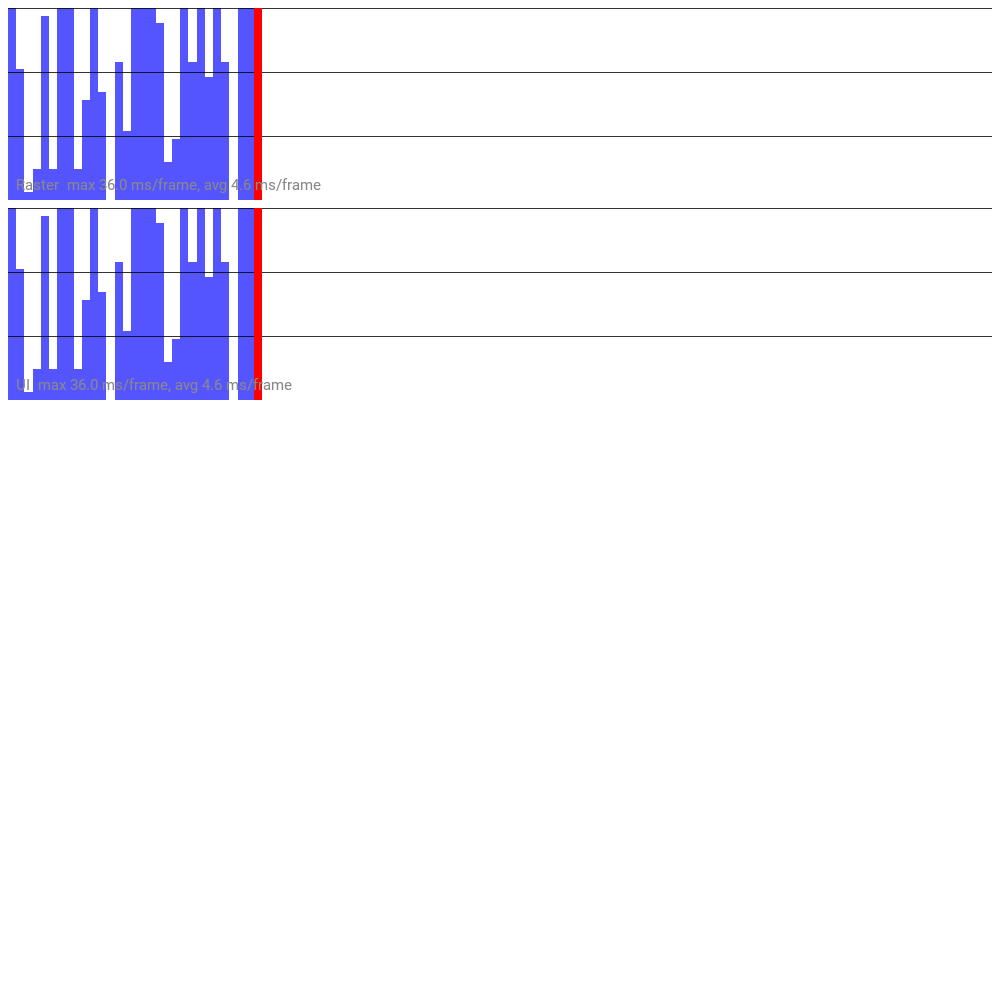
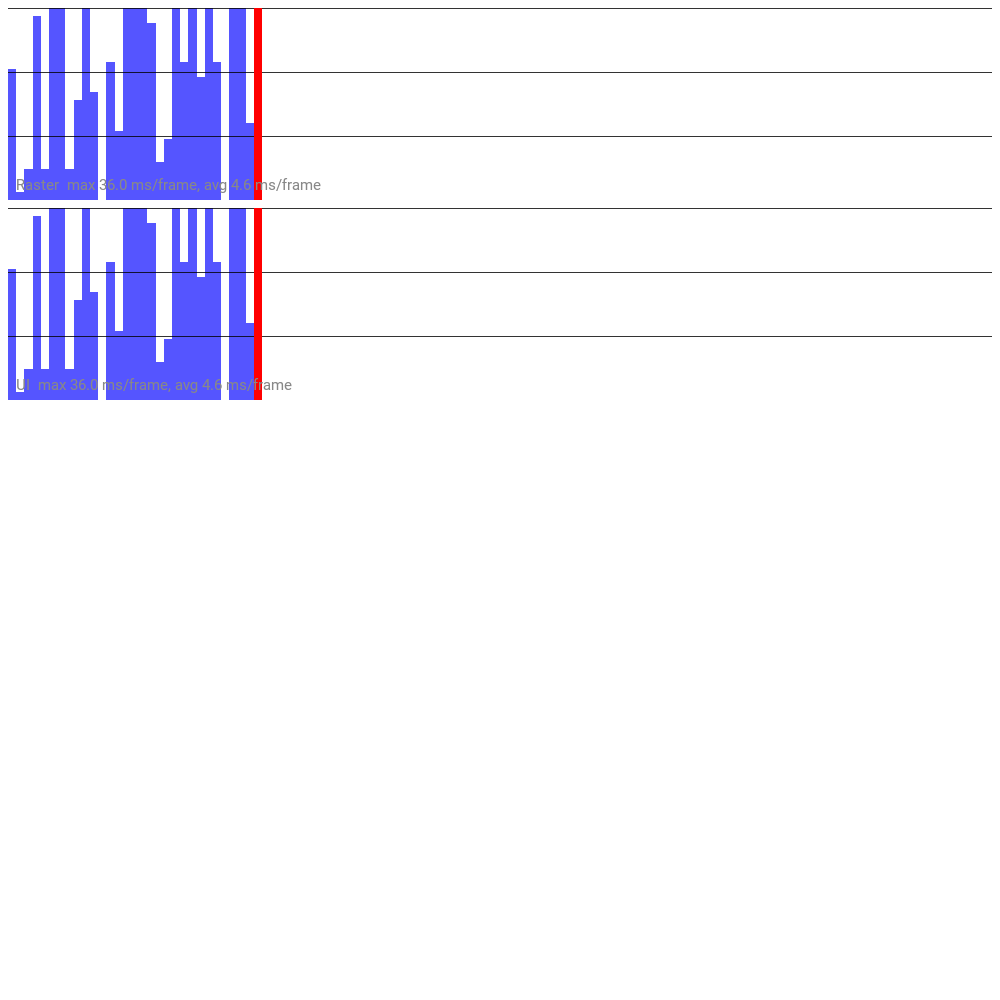
Delete Skia-specific performance overlay implementation (#176364)
(Essentially a re-issue of
https://github.com/flutter/flutter/pull/174682 which ended up with
broken Google Testing links)

We had 2 different implementations of the rendering code for the
performance overlay layer. The skia version used some skia-specific code
to render the overlay incrementally into an offscreen surface and so we
created a different implementation for Impeller that only uses standard
rendering calls (and no surface cache). It turns out that the Impeller
version was faster anyway even on Skia so it is a simple change to
delete the old code and always use the new visualizer.

The new visualizer reduces the time to render the graph from just under
1ms to about .1ms on Skia.
The new visualizer takes .1ms longer to compute on the UI thread, but
overall we save time between the 2 threads.
The new visualizer is much faster on Impeller.

Some work could be done to save some of that time on the UI thread by
only incrementally updating the graph data, but for now we can take the
~.8-.9ms savings with just some deleted code.

Changed region(s): [[0.0, 0.0, 0.279, 0.403]]

diff --git a/engine/src/flutter/flow/stopwatch_dl.cc b/engine/src/flutter/flow/stopwatch_dl.cc
@@ -20,21 +20,21 @@ static const size_t kMaxFrameMarkers = 8;
 
 void DlStopwatchVisualizer::Visualize(DlCanvas* canvas,
                                       const DlRect& rect) const {
-  auto painter = DlVertexPainter(vertices_storage_, color_storage_);
+  DlVertexPainter painter(vertices_storage_, color_storage_);
   DlPaint paint;
 
   // Establish the graph position.
-  auto const x = rect.GetX();
-  auto const y = rect.GetY();
-  auto const width = rect.GetWidth();
-  auto const height = rect.GetHeight();
-  auto const bottom = rect.GetBottom();
+  const DlScalar x = rect.GetX();
+  const DlScalar y = rect.GetY();
+  const DlScalar width = rect.GetWidth();
+  const DlScalar height = rect.GetHeight();
+  const DlScalar bottom = rect.GetBottom();
 
   // Scale the graph to show time frames up to those that are 3x the frame time.
-  auto const one_frame_ms = GetFrameBudget().count();
-  auto const max_interval = one_frame_ms * 3.0;
-  auto const max_unit_interval = UnitFrameInterval(max_interval);
-  auto const sample_unit_width = (1.0 / kMaxSamples);
+  const DlScalar one_frame_ms = GetFrameBudget().count();
+  const DlScalar max_interval = one_frame_ms * 3.0;
+  const DlScalar max_unit_interval = UnitFrameInterval(max_interval);
+  const DlScalar sample_unit_width = width / kMaxSamples;
 
   // resize backing storage to match expected lap count.
   size_t required_storage =
@@ -50,20 +50,21 @@ void DlStopwatchVisualizer::Visualize(DlCanvas* canvas,
   // Prepare a path for the data; we start at the height of the last point so
   // it looks like we wrap around.
   {
-    for (auto i = 0u; i < stopwatch_.GetLapsCount(); i++) {
-      auto const sample_unit_height =
-          (1.0 - UnitHeight(stopwatch_.GetLap(i).ToMillisecondsF(),
-                            max_unit_interval));
+    DlScalar bar_left = x;
+    for (size_t i = 0u; i < stopwatch_.GetLapsCount(); i++) {
+      const double time_ms = stopwatch_.GetLap(i).ToMillisecondsF();
+      const DlScalar sample_unit_height = static_cast<DlScalar>(
+          height * UnitHeight(time_ms, max_unit_interval));
 
-      auto const bar_width = width * sample_unit_width;
-      auto const bar_height = height * sample_unit_height;
-      auto const bar_left = x + width * sample_unit_width * i;
+      const DlScalar bar_top = bottom - sample_unit_height;
+      const DlScalar bar_right = x + (i + 1) * sample_unit_width;
 
       painter.DrawRect(DlRect::MakeLTRB(/*left=*/bar_left,
-                                        /*top=*/y + bar_height,
-                                        /*right=*/bar_left + bar_width,
+                                        /*top=*/bar_top,
+                                        /*right=*/bar_right,
                                         /*bottom=*/bottom),
                        DlColor(0xAA0000FF));
+      bar_left = bar_right;
     }
   }
 
@@ -71,22 +72,22 @@ void DlStopwatchVisualizer::Visualize(DlCanvas* canvas,
   {
     if (max_interval > one_frame_ms) {
       // Paint the horizontal markers.
-      auto count = static_cast<size_t>(max_interval / one_frame_ms);
+      size_t count = static_cast<size_t>(max_interval / one_frame_ms);
 
       // Limit the number of markers to a reasonable amount.
       if (count > kMaxFrameMarkers) {
         count = 1;
       }
 
-      for (auto i = 0u; i < count; i++) {
-        auto const frame_height =
+      for (uint32_t i = 0u; i < count; i++) {
+        const DlScalar frame_height =
             height * (1.0 - (UnitFrameInterval(i + 1) * one_frame_ms) /
                                 max_unit_interval);
 
         // Draw a skinny rectangle (i.e. a line).
         painter.DrawRect(DlRect::MakeLTRB(/*left=*/x,
                                           /*top=*/y + frame_height,
-                                          /*right=*/width,
+                                          /*right=*/x + width,
                                           /*bottom=*/y + frame_height + 1),
                          DlColor(0xCC000000));
       }
@@ -100,12 +101,12 @@ void DlStopwatchVisualizer::Visualize(DlCanvas* canvas,
       // budget exceeded.
       color = DlColor::kRed();
     }
-    auto const l =
-        x + width * (static_cast<double>(stopwatch_.GetCurrentSample()) /
-                     kMaxSamples);
-    auto const t = y;
-    auto const r = l + width * sample_unit_width;
-    auto const b = rect.GetBottom();
+    size_t sample =
+        (stopwatch_.GetCurrentSample() + 1) % stopwatch_.GetLapsCount();
+    const DlScalar l = x + sample * sample_unit_width;
+    const DlScalar t = y;
+    const DlScalar r = l + sample_unit_width;
+    const DlScalar b = rect.GetBottom();
     painter.DrawRect(DlRect::MakeLTRB(l, t, r, b), color);
   }
 
@@ -124,10 +125,10 @@ DlVertexPainter::DlVertexPainter(std::vector<DlPoint>& vertices_storage,
     : vertices_(vertices_storage), colors_(color_storage) {}
 
 void DlVertexPainter::DrawRect(const DlRect& rect, const DlColor& color) {
-  auto const left = rect.GetLeft();
-  auto const top = rect.GetTop();
-  auto const right = rect.GetRight();
-  auto const bottom = rect.GetBottom();
+  const DlScalar left = rect.GetLeft();
+  const DlScalar top = rect.GetTop();
+  const DlScalar right = rect.GetRight();
+  const DlScalar bottom = rect.GetBottom();
 
   FML_DCHECK(6 + colors_offset_ <= vertices_.size());
   FML_DCHECK(6 + colors_offset_ <= colors_.size());
@@ -139,7 +140,7 @@ void DlVertexPainter::DrawRect(const DlRect& rect, const DlColor& color) {
   vertices_[vertices_offset_++] = DlPoint(right, bottom);  // tl
   vertices_[vertices_offset_++] = DlPoint(left, bottom);   // bl br
   vertices_[vertices_offset_++] = DlPoint(left, top);      //
-  for (auto i = 0u; i < 6u; i++) {
+  for (size_t i = 0u; i < 6u; i++) {
     colors_[colors_offset_++] = color;
   }
 }

diff --git a/engine/src/flutter/flow/layers/performance_overlay_layer_unittests.cc b/engine/src/flutter/flow/layers/performance_overlay_layer_unittests.cc
@@ -73,6 +73,7 @@ static void TestPerformanceOverlayLayerGold(int refresh_rate) {
       .ui_time                       = mock_stopwatch,
       .texture_registry              = nullptr,
       .raster_cache                  = nullptr,
+      .impeller_enabled              = false,
       // clang-format on
   };
 
@@ -141,7 +142,13 @@ class ImageSizeTextBlobInspector : public virtual DlOpReceiver,
                  const DlPoint& point,
                  DlImageSampling sampling,
                  bool render_with_attributes) override {
-    sizes_.push_back(image->GetBounds().GetSize());
+    // We no longer render performance overlays with temp images.
+    FML_UNREACHABLE();
+  }
+
+  void drawVertices(const std::shared_ptr<DlVertices>& vertices,
+                    DlBlendMode mode) override {
+    sizes_.push_back(vertices->GetBounds().GetSize());
   }
 
   void drawText(const std::shared_ptr<DlText>& text,
@@ -151,17 +158,17 @@ class ImageSizeTextBlobInspector : public virtual DlOpReceiver,
     text_positions_.push_back(DlPoint(x, y));
   }
 
-  const std::vector<DlISize>& sizes() { return sizes_; }
+  const std::vector<DlSize>& sizes() { return sizes_; }
   const std::vector<std::shared_ptr<DlText>> texts() { return texts_; }
   const std::vector<DlPoint> text_positions() { return text_positions_; }
 
  private:
-  std::vector<DlISize> sizes_;
+  std::vector<DlSize> sizes_;
   std::vector<std::shared_ptr<DlText>> texts_;
   std::vector<DlPoint> text_positions_;
 };
 
-TEST_F(PerformanceOverlayLayerTest, PaintingEmptyLayerDies) {
+TEST_F(PerformanceOverlayLayerTest, PaintingEmptyLayerDoesNotDie) {
   const uint64_t overlay_opts = kVisualizeRasterizerStatistics;
   auto layer = std::make_shared<PerformanceOverlayLayer>(overlay_opts);
 
@@ -169,8 +176,7 @@ TEST_F(PerformanceOverlayLayerTest, PaintingEmptyLayerDies) {
   EXPECT_EQ(layer->paint_bounds(), DlRect());
   EXPECT_FALSE(layer->needs_painting(paint_context()));
 
-  // Crashes reading a nullptr.
-  EXPECT_DEATH_IF_SUPPORTED(layer->Paint(paint_context()), "");
+  layer->Paint(paint_context());
 }
 
 TEST_F(PerformanceOverlayLayerTest, InvalidOptions) {
@@ -237,7 +243,7 @@ TEST_F(PerformanceOverlayLayerTest, MarkAsDirtyWhenResized) {
   layer->set_paint_bounds(DlRect::MakeLTRB(0.0f, 0.0f, 48.0f, 48.0f));
   layer->Preroll(preroll_context());
   layer->Paint(display_list_paint_context());
-  DlISize first_draw_size;
+  DlSize first_draw_size;
   {
     ImageSizeTextBlobInspector inspector;
     display_list()->Dispatch(inspector);

diff --git a/engine/src/flutter/flow/stopwatch_unittests.cc b/engine/src/flutter/flow/stopwatch_unittests.cc
@@ -51,15 +51,33 @@ TEST(Instrumentation, GetLapByIndexTest) {
   fml::Milliseconds frame_budget_90fps = fml::RefreshRateToFrameBudget(90);
   FixedRefreshRateStopwatch stopwatch(frame_budget_90fps);
   stopwatch.SetLapTime(fml::TimeDelta::FromMilliseconds(10));
-  EXPECT_EQ(stopwatch.GetLap(1), fml::TimeDelta::FromMilliseconds(10));
+  EXPECT_EQ(stopwatch.GetLap(0), fml::TimeDelta::FromMilliseconds(10));
 }
 
-TEST(Instrumentation, GetCurrentSampleTest) {
+TEST(Instrumentation, GetCurrentSampleStartStopTest) {
   fml::Milliseconds frame_budget_90fps = fml::RefreshRateToFrameBudget(90);
   FixedRefreshRateStopwatch stopwatch(frame_budget_90fps);
+  // Stopwatch starts primed to place the first sample in slot 0 when
+  // the actual time is available.
+  EXPECT_EQ(stopwatch.GetCurrentSample(), size_t(Stopwatch::kMaxSamples - 1u));
   stopwatch.Start();
+  // CurrentSample still not updated because we are still measuring
+  // this frame.
+  EXPECT_EQ(stopwatch.GetCurrentSample(), size_t(Stopwatch::kMaxSamples - 1u));
   stopwatch.Stop();
-  EXPECT_EQ(stopwatch.GetCurrentSample(), size_t(1));
+  // The most current sample is placed in slot #0.
+  EXPECT_EQ(stopwatch.GetCurrentSample(), size_t(0));
+}
+
+TEST(Instrumentation, GetCurrentSampleSetLapTimeTest) {
+  fml::Milliseconds frame_budget_90fps = fml::RefreshRateToFrameBudget(90);
+  FixedRefreshRateStopwatch stopwatch(frame_budget_90fps);
+  // Stopwatch starts primed to place the first sample in slot 0 when
+  // the actual time is available.
+  EXPECT_EQ(stopwatch.GetCurrentSample(), size_t(Stopwatch::kMaxSamples - 1u));
+  stopwatch.SetLapTime(fml::TimeDelta::FromMilliseconds(10));
+  // The most current sample is placed in slot #0.
+  EXPECT_EQ(stopwatch.GetCurrentSample(), size_t(0));
 }
 
 TEST(Instrumentation, GetLapsCount) {

diff --git a/engine/src/flutter/flow/stopwatch.cc b/engine/src/flutter/flow/stopwatch.cc
@@ -6,8 +6,6 @@
 
 namespace flutter {
 
-static const size_t kMaxSamples = 120;
-
 Stopwatch::Stopwatch(const RefreshRateUpdater& updater)
     : refresh_rate_updater_(updater), start_(fml::TimePoint::Now()) {
   const fml::TimeDelta delta = fml::TimeDelta::Zero();
@@ -26,11 +24,10 @@ FixedRefreshRateUpdater::FixedRefreshRateUpdater(
 
 void Stopwatch::Start() {
   start_ = fml::TimePoint::Now();
-  current_sample_ = (current_sample_ + 1) % kMaxSamples;
 }
 
 void Stopwatch::Stop() {
-  laps_[current_sample_] = fml::TimePoint::Now() - start_;
+  SetLapTime(fml::TimePoint::Now() - start_);
 }
 
 void Stopwatch::SetLapTime(const fml::TimeDelta& delta) {
@@ -39,7 +36,7 @@ void Stopwatch::SetLapTime(const fml::TimeDelta& delta) {
 }
 
 const fml::TimeDelta& Stopwatch::LastLap() const {
-  return laps_[(current_sample_ - 1) % kMaxSamples];
+  return laps_[current_sample_];
 }
 
 const fml::TimeDelta& Stopwatch::GetLap(size_t index) const {

diff --git a/engine/src/flutter/flow/layers/performance_overlay_layer.cc b/engine/src/flutter/flow/layers/performance_overlay_layer.cc
@@ -12,7 +12,6 @@
 #include "display_list/dl_text_skia.h"
 #include "flow/stopwatch.h"
 #include "flow/stopwatch_dl.h"
-#include "flow/stopwatch_sk.h"
 #include "third_party/skia/include/core/SkFont.h"
 #include "third_party/skia/include/core/SkFontMgr.h"
 #include "third_party/skia/include/core/SkTextBlob.h"
@@ -44,12 +43,8 @@ void VisualizeStopWatch(DlCanvas* canvas,
 
   if (show_graph) {
     DlRect visualization_rect = DlRect::MakeXYWH(x, y, width, height);
-    if (impeller_enabled) {
-      DlStopwatchVisualizer(stopwatch, point_storage, color_storage)
-          .Visualize(canvas, visualization_rect);
-    } else {
-      SkStopwatchVisualizer(stopwatch).Visualize(canvas, visualization_rect);
-    }
+    DlStopwatchVisualizer(stopwatch, point_storage, color_storage)
+        .Visualize(canvas, visualization_rect);
   }
 
   if (show_labels) {

diff --git a/engine/src/flutter/flow/stopwatch.h b/engine/src/flutter/flow/stopwatch.h
@@ -16,6 +16,9 @@ namespace flutter {
 
 class Stopwatch {
  public:
+  // The number of samples that will be accumulated for performance monitoring
+  static const size_t kMaxSamples = 120;
+
   /// The refresh rate interface for `Stopwatch`.
   class RefreshRateUpdater {
    public:
@@ -56,7 +59,7 @@ class Stopwatch {
   const RefreshRateUpdater& refresh_rate_updater_;
   fml::TimePoint start_;
   std::vector<fml::TimeDelta> laps_;
-  size_t current_sample_ = 0;
+  size_t current_sample_ = kMaxSamples - 1u;
 
   FML_DISALLOW_COPY_AND_ASSIGN(Stopwatch);
 };
